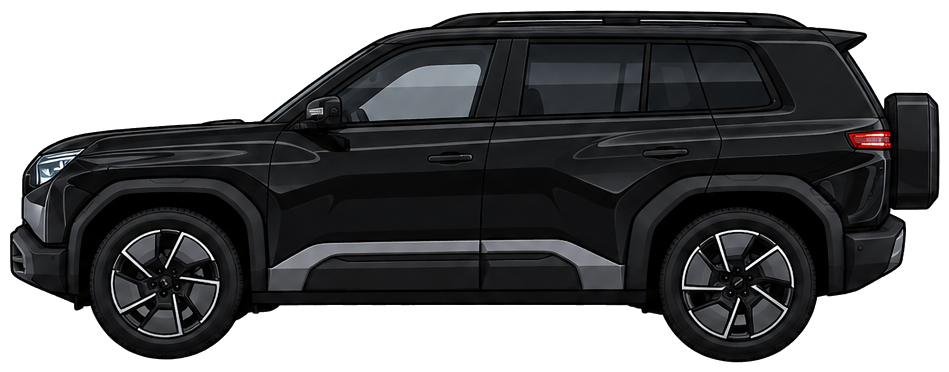
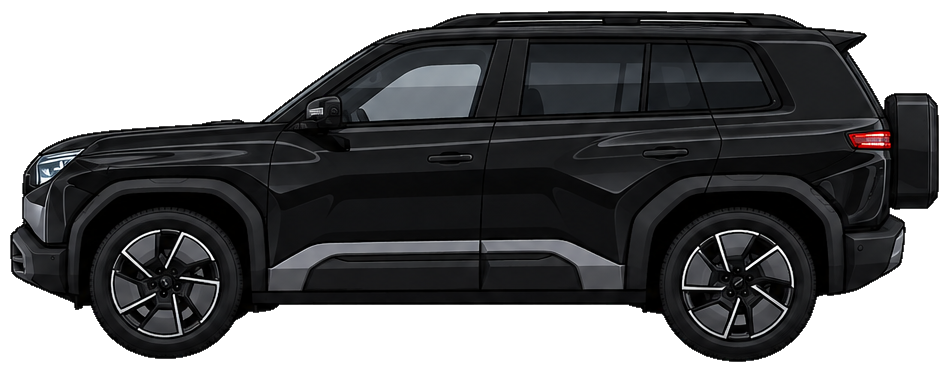
Car drawings: remove the light halo around the cut-out
The outermost pixel ring of both drawings was near-white, left over
from cutting the car out of a white background, and showed as a thin
white outline and dashes under the body on dark dashboards. Strip the
light edge pixels, soften the new outline and rebuild the paint masks.
dev/defringe.py does the same for new drawings.

diff --git a/dev/defringe.py b/dev/defringe.py
@@ -1,0 +1,30 @@
+"""Remove the light 1-px halo left around the car drawings by the original cut-out (run from the repo root, needs Pillow + numpy)."""
+import numpy as np
+from PIL import Image
+
+SRC = "custom_components/byd_leopard3/www/images/"
+
+
+def boundary(op):
+    pad = np.pad(op, 1, constant_values=False)
+    inner = pad[:-2, 1:-1] & pad[2:, 1:-1] & pad[1:-1, :-2] & pad[1:-1, 2:]
+    return op & ~inner
+
+
+def defringe(path, passes=3, light=60, soft=190):
+    im = np.array(Image.open(path).convert("RGBA"))
+    lum = im[..., :3].astype(int).mean(-1)
+    for _ in range(passes):
+        edge = boundary(im[..., 3] > 0)
+        halo = edge & (lum > light)
+        if not halo.any():
+            break
+        im[..., 3][halo] = 0
+    # Soften the new outline a little so it does not look jagged on any background.
+    im[..., 3][boundary(im[..., 3] > 0)] = soft
+    Image.fromarray(im).save(path, optimize=True)
+
+
+if __name__ == "__main__":
+    for view in ("side", "top"):
+        defringe(f"{SRC}leopard3_{view}.png")
